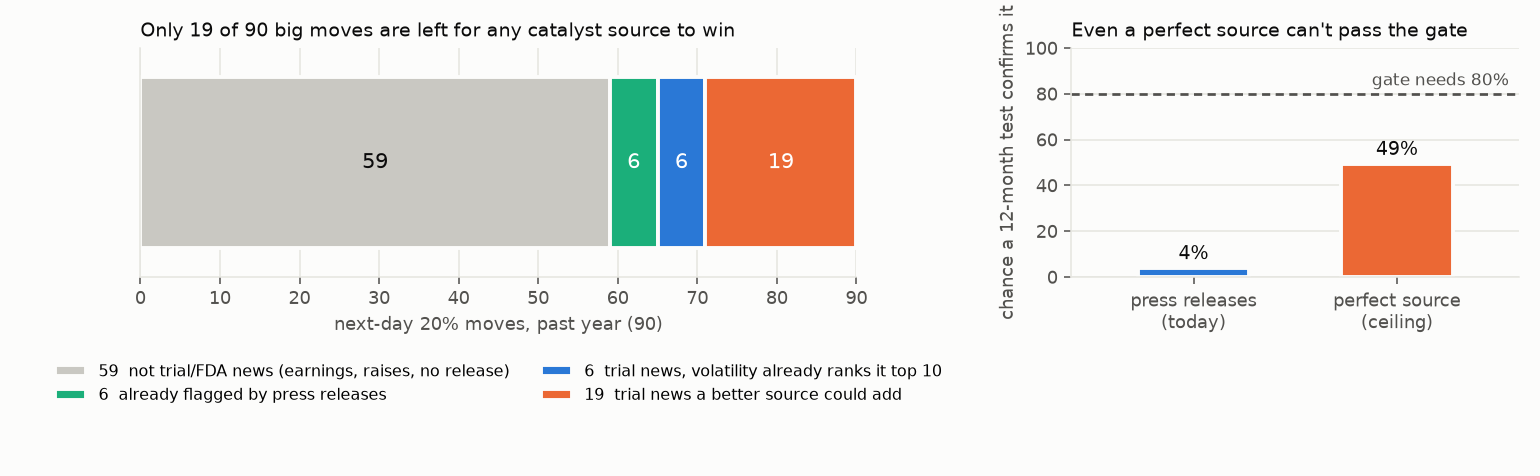
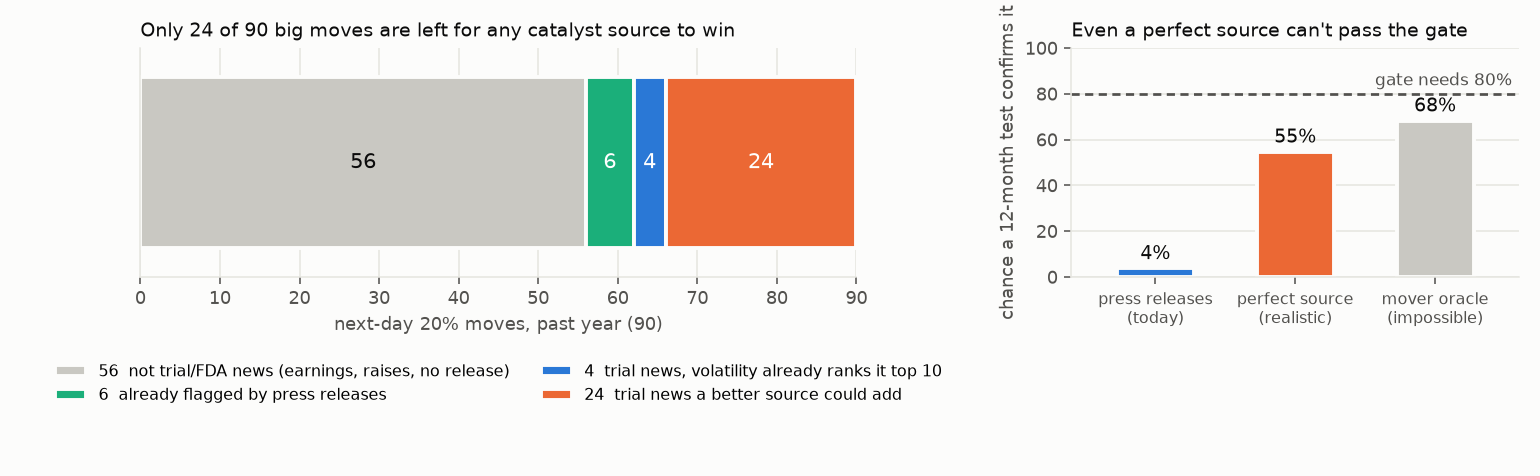
sector forward: source-2 ceiling - even a perfect catalyst source cannot pass the gate (counter-agent confirmed with corrections)
Claude-Session: https://claude.ai/code/session_018pBh7Pbpx6hXZasdnfmtby

diff --git a/genomics-alpha-tracker/docs/DESIGN_SECTOR_FORWARD_TEST.md b/genomics-alpha-tracker/docs/DESIGN_SECTOR_FORWARD_TEST.md
@@ -620,3 +620,39 @@ be **source 2**, judged with a Bonferroni bound (lower 95% for m = 2).
 press-release catalyst date (PDUFA and guided topline) as context. It is
 now evidence-backed context: an exposed name had about twice the odds of a
 big move.
+
+## Source 2 ceiling (2026-10-06, exploratory): not worth running
+
+**Question.** Could any catalyst source, full text included, pass condition 2?
+
+**Method.** Take the gate's 90 de-clustered events. For each one, list the
+company's own releases published from 16:00 on P through 16:00 on the event
+day. Hand-classify each move as trial/regulatory news or not, then find each
+one's B1x rank on P.
+
+**Result.**
+- 34 of the 90 moves were trial/regulatory news. The other 56 were
+  earnings, raises, law-firm noise, or moves with no release.
+- Of the 34, 6 were already exposed in source 1. Another 4 were already
+  in B1x's top 10, so flagging them gains nothing. That leaves at most 24
+  winnable moves (2 of them are current B1x-only losses).
+- Best case, with a perfect source:
+  - with window-based displacement, the pair is (30, 7) and power at 12
+    months is 0.547;
+  - with an impossible zero-displacement oracle that flags only the move
+    day, it is (30, 4) and 0.683.
+- Both fall short of 0.80. Full-text source 2 is therefore not run: its
+  result could not change the decision.
+
+**Counter-agent (1 reviewer): CONFIRMED-WITH-CORRECTIONS.**
+- My first pass missed 3 trial-news moves. Their titles were hidden behind
+  law-firm alerts, or the release came out just after 16:00 on P (QURE
+  2025-11-03, SRPT 2025-11-04, GRAL 2026-02-20).
+- It overstated the c floor: 6, corrected to 4.
+- The corrected numbers are the ones above.
+- The reviewer found that only a zero-displacement oracle, with every
+  unexplained move also counted as a catalyst, passes (0.911). No dated
+  source can be that oracle.
+- The gate's Bonferroni rule only makes source 2 harder.
+- Chart: `charts/source2_ceiling.png`. The scripts stayed in the session
+  scratchpad. This section is exploratory and changes no frozen rule.
